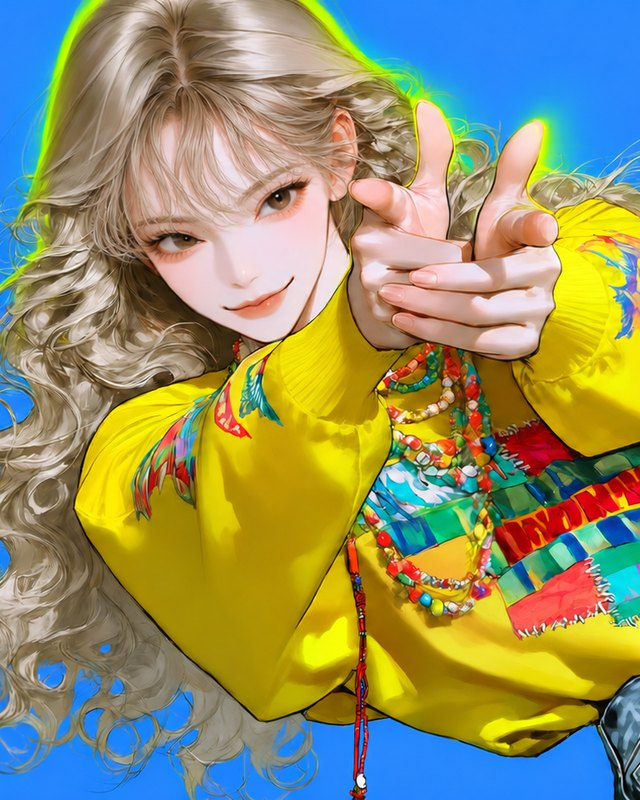
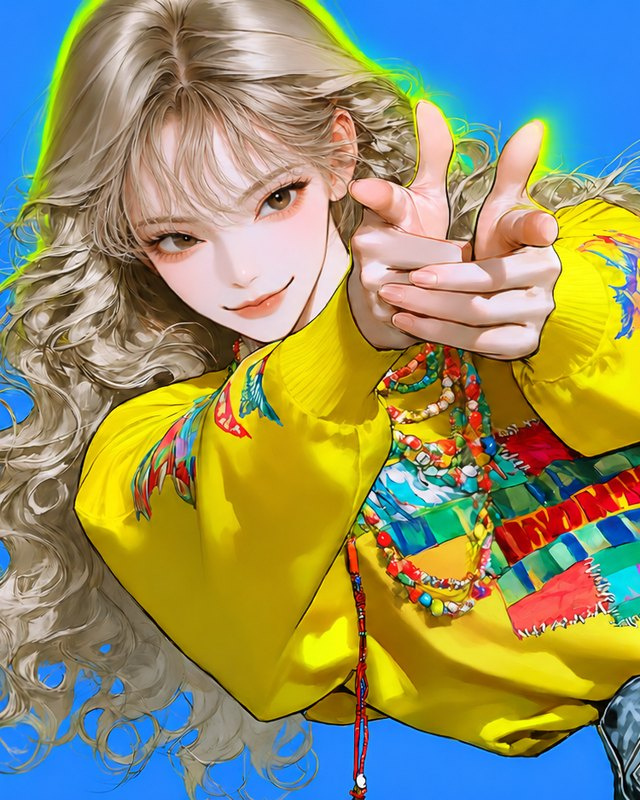
ina-site: 메인 히어로 교체(메인교체 이미지) + 따발총 카드 최신본
Claude-Session: https://claude.ai/code/session_011EzeY3NpWYfpNSMNSsUuhX

diff --git a/ina-site/index.html b/ina-site/index.html
@@ -878,7 +878,7 @@ img{-webkit-user-drag:none;user-drag:none;-webkit-touch-callout:none}
   <div class="h2-stage">
     <div class="h-card c1" aria-hidden="true"></div>
     <div class="h-card c2" aria-hidden="true"></div>
-    <div class="slot h-pic h2-pic" data-file="img/hero_wide.jpg"><picture><source media="(max-width:720px)" srcset="img/hero_tall.jpg?v=5"><img src="img/hero_wide.jpg?v=5" alt="손가락 총을 겨누는 백이나"></picture><span class="mtape t1"></span><span class="mtape t2"></span></div>
+    <div class="slot h-pic h2-pic" data-file="img/hero_wide.jpg"><picture><source media="(max-width:720px)" srcset="img/hero_tall.jpg?v=6"><img src="img/hero_wide.jpg?v=6" alt="카메라 쪽으로 손을 뻗은 백이나"></picture><span class="mtape t1"></span><span class="mtape t2"></span></div>
     <h1 class="h-ttl" aria-label="INA"><span>I</span><span>N</span><span>A</span></h1>
     <svg class="h-ring" viewBox="0 0 120 120" aria-hidden="true"><defs><path id="ringP" d="M60 60m-46 0a46 46 0 1 1 92 0a46 46 0 1 1-92 0"/></defs><circle cx="60" cy="60" r="58"/><text><textPath href="#ringP">LSD · 1ST MINI ALBUM · 2034.12.12 · INA · </textPath></text><g class="ring-c"><circle cx="60" cy="60" r="22"/><circle cx="60" cy="60" r="7"/></g></svg>
     <div class="dday">D-30<small>2034.11.12</small></div>
@@ -1154,7 +1154,7 @@ img{-webkit-user-drag:none;user-drag:none;-webkit-touch-callout:none}
       <div class="cmp-h" id="cmpH" role="slider" tabindex="0" aria-label="무대와 니 앞 비교" aria-valuemin="0" aria-valuemax="100" aria-valuenow="50"></div>
     </div>
     <div class="cmp-lbl"><span>◀ 무대 위 INA</span><span>니 앞 백이나 ▶</span></div>
-    <img class="flip-gun" src="img/flip_gun.jpg?v=3" alt="" aria-hidden="true">
+    <img class="flip-gun" src="img/flip_gun.jpg?v=4" alt="" aria-hidden="true">
   </div>
 </section>
 
